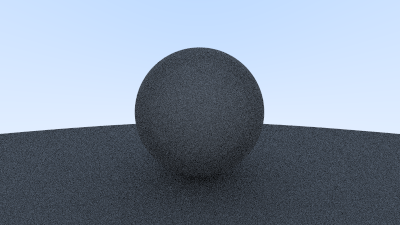
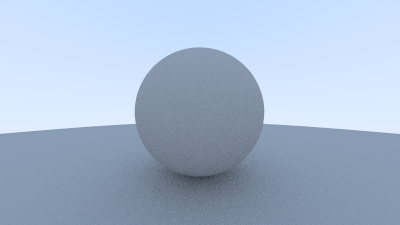
7.4: fixed shadow acne

diff --git a/src/ray.rs b/src/ray.rs
@@ -24,7 +24,7 @@ pub fn colour(scene: &impl Object, ray: &Ray, depth: u8) -> Colour {
         return v!(0);
     }
 
-    if let Some(hit) = scene.hit(ray, (0.0, f64::INFINITY)) {
+    if let Some(hit) = scene.hit(ray, (0.00001, f64::INFINITY)) {
         let direction = hit.normal + Vec3::rand_unit();
         let origin = hit.impact_point;
         0.5 * colour(scene, &Ray::new(origin, direction), depth - 1)
